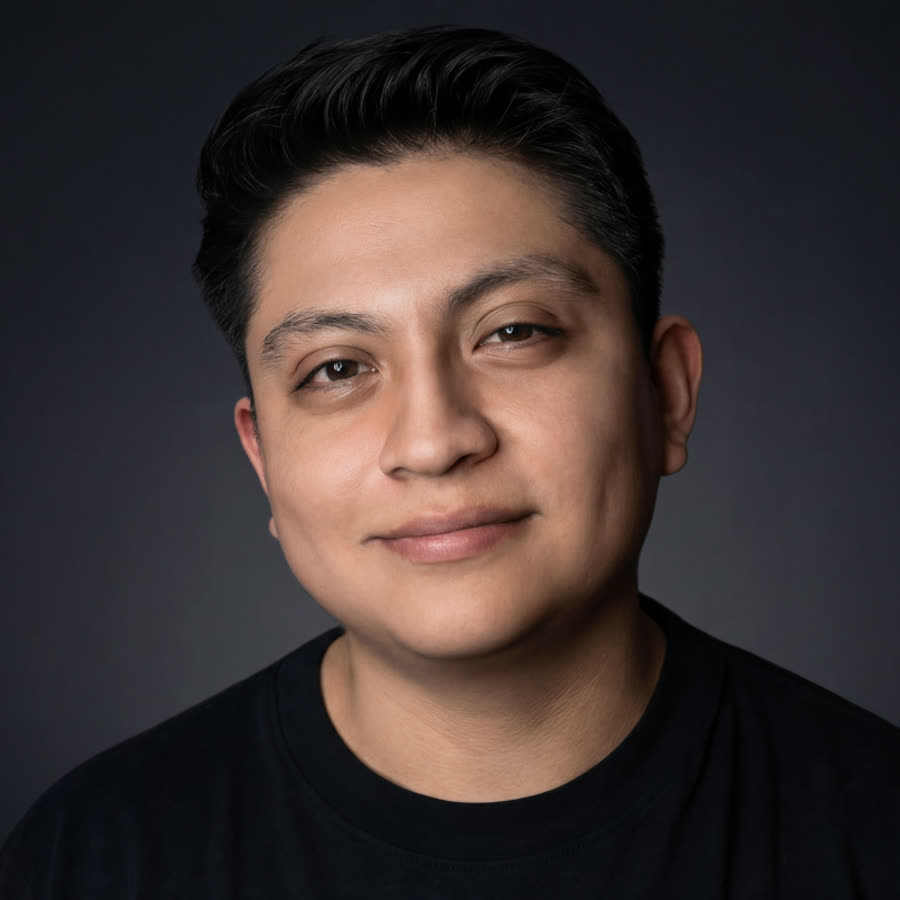
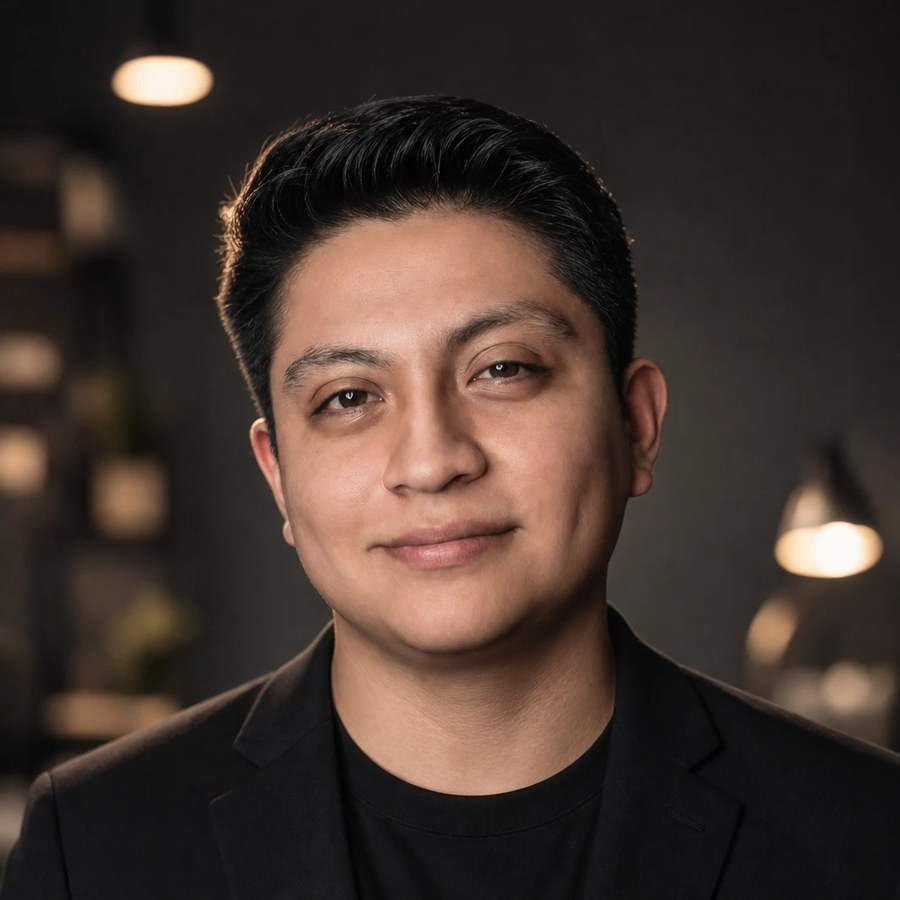
Nosotros: fotos nuevas de los socios y marcas de Julio

diff --git a/lib/nosotros.ts b/lib/nosotros.ts
@@ -41,7 +41,7 @@ export const SOCIOS: Socio[] = [
     accentRgb: "219,92,140",
     photo: "/images/equipo/julio.jpg",
     bio: "Dirige el arte y la identidad visual de cada proyecto — de la exploración con IA al acabado final — y construye las automatizaciones que hacen que los sistemas de la agencia trabajen solos.",
-    marcas: "Grimm Store — la tienda digital de videojuegos MOBA y ARTS más grande del mercado peruano · Kalimbo · hoteles, restaurantes y marcas de todo rubro",
+    marcas: "Grimm Store — la tienda digital de videojuegos MMORPG más grande del mercado peruano · EKICORP (hoteles) · Livoltek · Hexing · ZLink · Kalimbo · restaurantes y marcas de todo rubro",
   },
   {
     n: "03",
